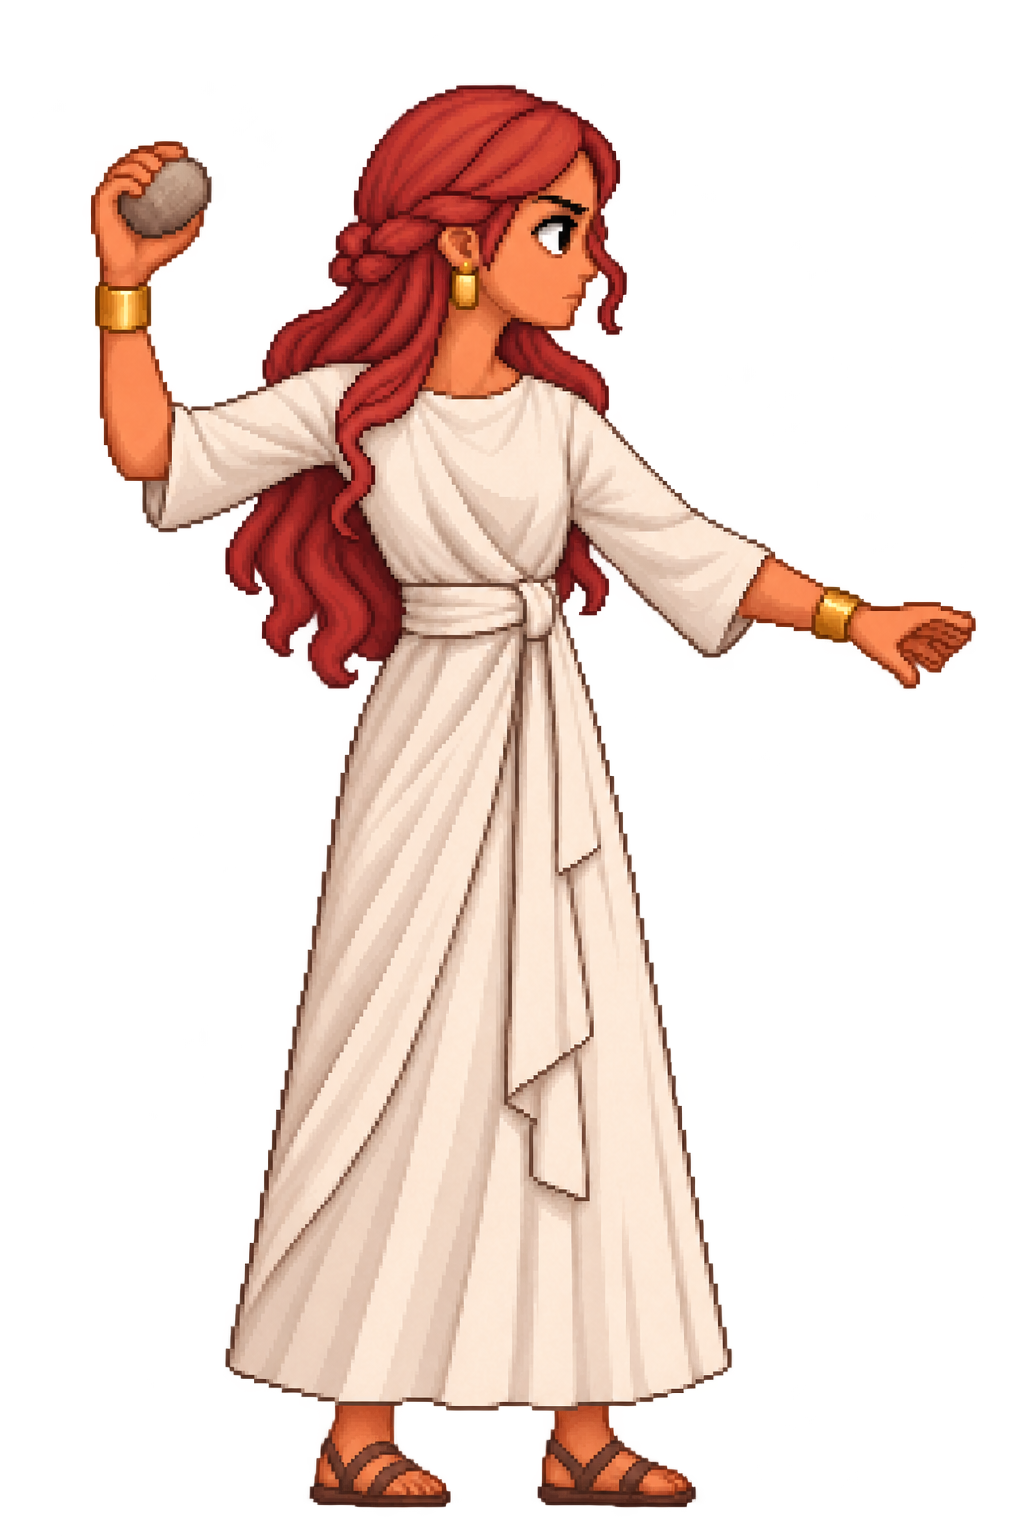
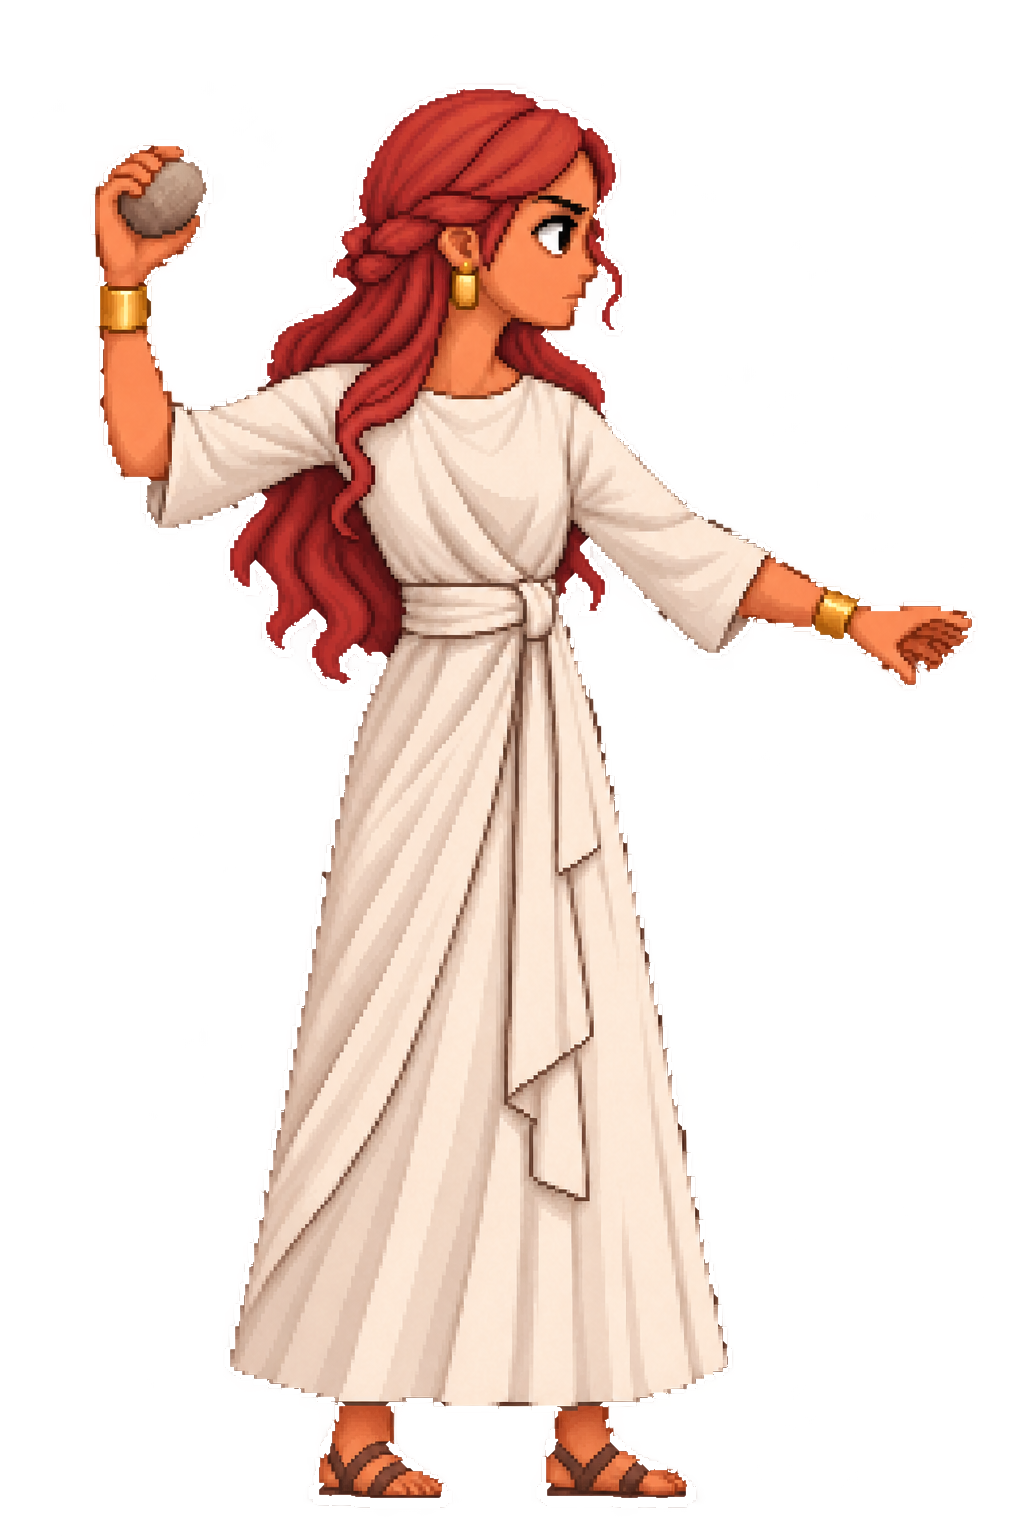
Aaron's birds pass in front of/behind him as they circle; mace makes foes hop once per attack; Zipporah sprites lose their dark outline and throw 1/2/3 straight stones by level

diff --git a/src/game/championAbilities.ts b/src/game/championAbilities.ts
@@ -132,11 +132,10 @@ export function resolveChampionAttack(state: GameState, ally: Entity, def: AllyD
 
   switch (def.attack) {
     case "stone": {
-      if (evo >= 3 && count % 3 === 0) {
-        for (let i = 0; i < 8; i++) thrown( rot({ x: 1, y: 0 }, (i / 8) * Math.PI * 2), 520, 0.9, { dmg, pierce: 3, art: "stone" });
-      } else {
-        const n = evo >= 2 ? 2 : 1;
-        for (let i = 0; i < n; i++) thrown( rot(delta(state, h, tgt, from), (i - (n - 1) / 2) * 0.15), 560, 0.9, { dmg, pierce: evo >= 2 ? 3 : 1, art: "stone" });
+      // Zipporah: 1 / 2 / 3 stones by level, each flying in a straight line
+      // (they never curve or chase anyone).
+      for (let i = 0; i < evo; i++) {
+        thrown(rot(delta(state, h, tgt, from), (i - (evo - 1) / 2) * 0.15), 560, 0.9, { dmg, pierce: evo >= 2 ? 3 : 1, art: "stone", liftEnd: 14 });
       }
       return true;
     }
@@ -432,6 +431,9 @@ export function updateChampionEntities(state: GameState, dt: number, h: ChampHel
       if (o.data?.downedUntil) { e.pos.x = o.pos.x; e.pos.y = o.pos.y - 30; d.hidden = 1; continue; }
       d.hidden = 0;
       updateBird(state, e, d, o, { x: o.pos.x + Math.cos(ang) * 46, y: o.pos.y - 40 + Math.sin(ang) * 16 }, dt, h);
+      // Draw order: the near half of the circle (lower on screen) in front of Aaron,
+      // the far half behind him, so they look like they fly around him.
+      if (d.tgt == null) d.depthY = o.pos.y + (Math.sin(ang) >= 0 ? 1 : -1);
     }
   }
 }
@@ -456,6 +458,7 @@ function updateBird(state: GameState, e: Entity, d: Record<string, unknown>, own
   const threats = birdThreats(state, h, owner);
   const t = threats.find((x) => x.id === d.tgt) ?? threats[(d.idx as number) % Math.max(1, threats.length)];
   d.tgt = t?.id;
+  if (t) d.depthY = t.pos.y + 2; // pecking: in front of the foe
   const ready = !!t && state.now >= ((d.next as number) ?? 0);
   let goal = home;
   if (t && ready) goal = { x: t.pos.x, y: t.pos.y - 16 };

diff --git a/src/game/GameCanvas.tsx b/src/game/GameCanvas.tsx
@@ -40,7 +40,7 @@ import { applyTestEquipment } from "./testEquipment";
 import { drawCombatEquipment } from "./combatEquipmentArt";
 import { drawSuppliedFx, drawWeaponImpact } from './combatWeaponPng';
 import { BRANCH_WIND_TRAVEL, BRANCH_WIND_WIDTH, SWORD_CROSS_SCALE } from './weaponAttack';
-import { branchWindAngle, weaponLaunchProgress } from './weapons';
+import { branchWindAngle, MACE_HOP_SECONDS, weaponLaunchProgress } from './weapons';
 import { impactLife } from './weaponAttack';
 import { latestEquipmentCastProgress, drawEquipmentPower, drawStaffRing, drawStaffSpecial } from "./equipmentFx";
 import { drawFootprints, drawFootwearAura, drawFootwearTeleport } from "./footwearFx";
@@ -1615,7 +1615,8 @@ function draw(ctx: CanvasRenderingContext2D, cnv: HTMLCanvasElement, s: GameStat
     swingProgress = null;
   }
   // Thrones are furniture: always behind whoever sits on them, even at equal depth.
-  const depthOf = (e: Entity) => e.pos.y - (e.kind === "throne" ? 1 : 0);
+  // Aaron's birds carry their own depth so they pass in front of / behind him.
+  const depthOf = (e: Entity) => (typeof e.data?.depthY === "number" ? e.data.depthY : e.pos.y) - (e.kind === "throne" ? 1 : 0);
   drawList.sort((a, b) => depthOf(a) - depthOf(b));
 
   const mainCtx = ctx;
@@ -1643,7 +1644,7 @@ function draw(ctx: CanvasRenderingContext2D, cnv: HTMLCanvasElement, s: GameStat
     }
     // Mace hit reaction: the foe hops up and falls back down (visual only).
     const liftAt = e.team === "enemy" && !stoned ? (e.data?.liftAt as number | undefined) : undefined;
-    const liftT = liftAt == null ? -1 : (s.now - liftAt) / 0.5;
+    const liftT = liftAt == null ? -1 : (s.now - liftAt) / MACE_HOP_SECONDS;
     const lifted = liftT >= 0 && liftT < 1;
     if (lifted) { ctx.save(); ctx.translate(0, -Math.sin(Math.PI * liftT) * 22); }
     // Divine Light brawl: a short lunge toward the foe on each blow.

diff --git a/src/game/weapons.ts b/src/game/weapons.ts
@@ -691,8 +691,9 @@ export function updateWeaponEntities(
             en.pos.x += (length ? dx / length : Math.cos(angle)) * Number(d.knock ?? 18);
             en.pos.y += (length ? dy / length : Math.sin(angle)) * Number(d.knock ?? 18);
           }
-          // Mace hit reaction: a brief rise, not a knockback launch.
-          if (e.kind === "maceimpact") { en.data ??= {}; en.data.liftAt = state.now; }
+          // Mace hit reaction: a brief rise, not a knockback launch. One hop per
+          // attack: the Mace of Judgment's second blow does not hop it again.
+          if (e.kind === "maceimpact" && !d.secondDone && !(state.now - Number(en.data?.liftAt ?? -9) < MACE_HOP_SECONDS)) { en.data ??= {}; en.data.liftAt = state.now; }
         }
         if (en.hp <= 0) ctx.killEnemy(en);
       }
@@ -704,6 +705,9 @@ export function updateWeaponEntities(
     }
   }
 }
+
+/** How long a mace hop lasts (GameCanvas draws it over the same time). */
+export const MACE_HOP_SECONDS = 0.5;
 
 function nearestEnemyTo(state: GameState, from: Vec2, wrapDelta: (a: number, b: number, size: number) => number, skip?: Set<number>): Entity | null {
   let best: Entity | null = null, bd = Infinity;

diff --git a/src/game/championAbilities.test.ts b/src/game/championAbilities.test.ts
@@ -39,9 +39,12 @@ test('Zipporah II throws two piercing stones with the established faster cooldow
   assert.deepEqual(a.spawned.map(e => e.data?.pierce), [3, 3]);
   updateChampionEntities(a.state, .4, a.h); assert.deepEqual(enemies.map(e => e.hp), [800, 800, 800]);
 });
-test('Zipporah III releases eight directional stones on every third attack', () => {
-  const a = arena('zipporah', 3); a.ally.data = { ...a.ally.data, atkCount: 2 }; const e = a.enemy(100);
-  a.cast(); assert.equal(a.spawned.length, 8); updateChampionEntities(a.state, .25, a.h); assert.equal(e.hp, 900);
+test('Zipporah throws one, two and three straight stones by level, on every attack', () => {
+  for (const evo of [1, 2, 3]) {
+    const a = arena('zipporah', evo); a.ally.data = { ...a.ally.data, atkCount: 2 };
+    a.cast(); assert.equal(a.spawned.length, evo);
+    for (const s of a.spawned) assert.equal(s.data?.liftEnd, 14);
+  }
 });
 test('Puah heals Moses through the real attack timeline without enemies', () => {
   const a = arena('puah', 1); a.state.player.hp = 40; a.state.plagues.clear();

diff --git a/src/game/championFx.ts b/src/game/championFx.ts
@@ -50,7 +50,9 @@ export function drawChampionFx(ctx: CanvasRenderingContext2D, e: Entity, camX: n
     case "chproj": {
       const art = PROJ_ART[(d.art as string) ?? "stone"] ?? PROJ_ART.stone;
       const [a, b, w, hgt] = art;
-      ctx.translate(x, y - ((d.lift as number) ?? 0) * Math.max(0, 1 - (1 - life) * 3));
+      const lift = (d.lift as number) ?? 0;
+      // Straight throws (liftEnd) glide evenly from the hand to body height, so they fly in a straight line.
+      ctx.translate(x, y - (d.liftEnd != null ? (d.liftEnd as number) + (lift - (d.liftEnd as number)) * life : lift * Math.max(0, 1 - (1 - life) * 3)));
       if (d.art === "arrow" || d.art === "firearrow" || d.art === "spear" || d.art === "espear" || d.art === "flameline") {
         ctx.rotate(Math.atan2((d.vy as number) ?? 0, (d.vx as number) ?? 1));
       }

diff --git a/src/game/shopCatalog.ts b/src/game/shopCatalog.ts
@@ -270,9 +270,9 @@ export const CHAMPIONS: ChampionDef[] = [
   {
     id: "zipporah", name: "Zipporah", relationship: "Moses' wife, daughter of Jethro.",
     evolutions: [
-      cev(1, 1_200, 90, 85, "Throws fast stones that do not pierce."),
-      cev(2, 800_000, 140, 100, "Throws two stones more frequently; they pierce enemies."),
-      cev(3, 2_000_000, 230, 120, "Periodically throws stones in several directions."),
+      cev(1, 1_200, 90, 85, "Throws a fast, straight stone that does not pierce."),
+      cev(2, 800_000, 140, 100, "Throws two straight stones more frequently; they pierce enemies."),
+      cev(3, 2_000_000, 230, 120, "Throws three straight piercing stones."),
     ],
   },
   {
